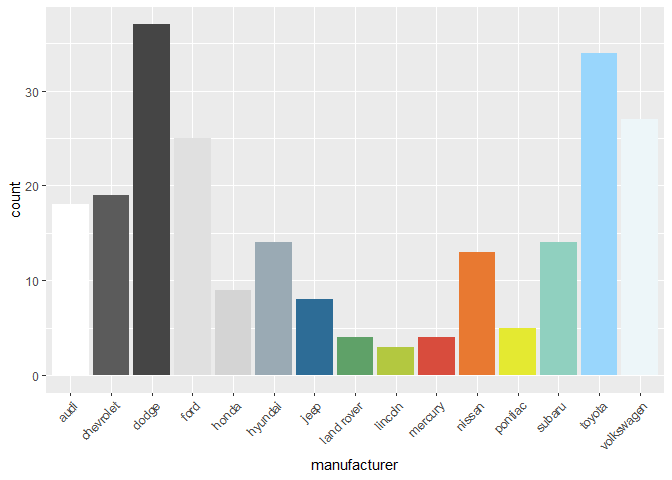
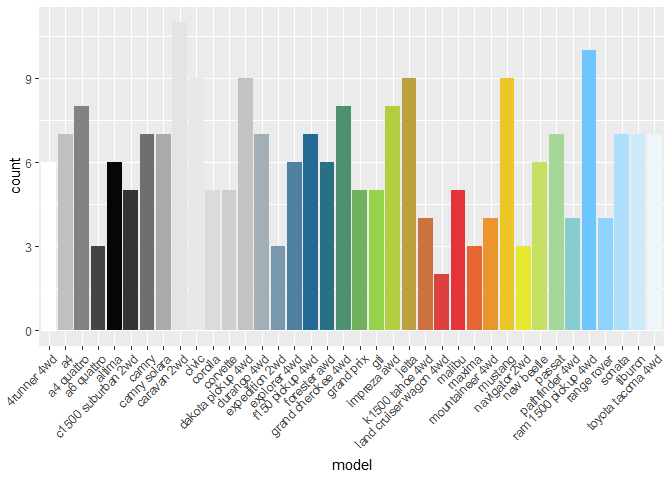
add  fancy tables in read me

diff --git a/README.md b/README.md
@@ -32,6 +32,7 @@ install.packages("ggplot2")
 install.packages("plotrix")
 install.packages("dplyr")
 install.packages("hues")
+install.packages("DT")
 ```
 
 ## load packages
@@ -50,31 +51,23 @@ library(dplyr)
 #> The following objects are masked from 'package:base':
 #> 
 #>     intersect, setdiff, setequal, union
+library(DT)
 ```
 
 ## the colors
 
 ``` r
 # the colors and hex codes
-bss_colors
-#> # A tibble: 60 x 11
-#>    R     G     B     hex    colour   Typ Full      col_pal hashed_hex excel_form
-#>    <chr> <chr> <chr> <chr>  <lgl>  <dbl> <chr>       <dbl> <chr>           <dbl>
-#>  1 255   255   255   FFFFFF NA         0 255,255,~       1 #FFFFFF             1
-#>  2 0     0     0     000000 NA         0 0,0,0           2 #000000             2
-#>  3 242   242   242   F2F2F2 NA         0 242,242,~       3 #F2F2F2             3
-#>  4 191   191   191   BFBFBF NA         0 191,191,~       4 #BFBFBF             4
-#>  5 21    95    144   155F90 NA         0 21,95,144       5 #155F90             5
-#>  6 171   228   65    ABE441 NA         0 171,228,~       6 #ABE441             6
-#>  7 229   35    61    E5233D NA         0 229,35,61       7 #E5233D             7
-#>  8 238   236   34    EEEC22 NA         0 238,236,~       8 #EEEC22             8
-#>  9 107   197   255   6BC5FF NA         0 107,197,~       9 #6BC5FF             9
-#> 10 237   246   249   EDF6F9 NA         0 237,246,~      10 #EDF6F9            10
-#> # ... with 50 more rows, and 1 more variable: name <chr>
-pie3D(rep(2, 10),explode=0, theta=1.2, col=basic_colors, main="bss_colors")
+datatable(bss_colors, extensions = "Scroller", width = 1000, options = list(scrollY = 200, scroller = TRUE, scrollX = 200, pageLength = 1))
 ```
 
 <img src="man/figures/README-unnamed-chunk-2-1.png" width="100%" />
+
+``` r
+pie3D(rep(2, 10),explode=0, theta=1.2, col=basic_colors, main="bss_colors")
+```
+
+<img src="man/figures/README-unnamed-chunk-2-2.png" width="100%" />
 
 ``` r
 #hashes <- bss_colors$hashed_hex
@@ -83,20 +76,20 @@ bss_colors <- bss_colors[order(bss_colors$col_pal),]
 swatch(bss_colors$hashed_hex)
 ```
 
-<img src="man/figures/README-unnamed-chunk-2-2.png" width="100%" />
+<img src="man/figures/README-unnamed-chunk-2-3.png" width="100%" />
 
 ``` r
 choice <- bss_colors %>% filter(col_pal == 7) 
 swatch(choice$hashed_hex)
 ```
 
-<img src="man/figures/README-unnamed-chunk-2-3.png" width="100%" />
+<img src="man/figures/README-unnamed-chunk-2-4.png" width="100%" />
 
 ``` r
 swatch(basic_colors)
 ```
 
-<img src="man/figures/README-unnamed-chunk-2-4.png" width="100%" />
+<img src="man/figures/README-unnamed-chunk-2-5.png" width="100%" />
 
 ## function: bss\_cols() - examples
 
@@ -194,7 +187,7 @@ Custom fill scale functions for ggplot2.
 
 ``` r
 # Fill by discrete variable with different palette + remove legend (guide)
-ggplot(mpg, aes(manufacturer, fill = manufacturer)) +
+ggplot(mpg, aes(model          , fill = model         )) +
   geom_bar() +
   theme(axis.text.x = element_text(angle = 45, hjust = 1)) +
   scale_fill_bss(palette = "main", guide = "none")
